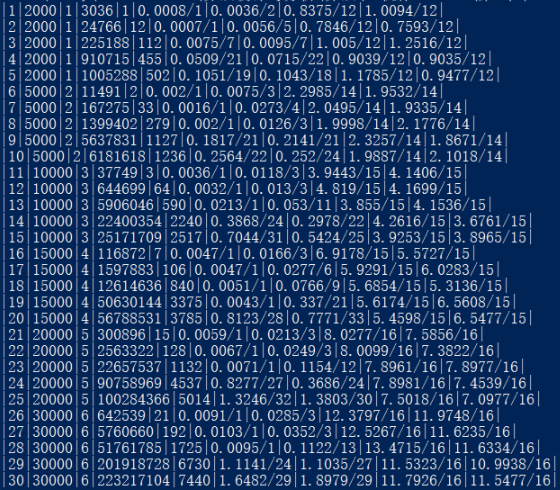
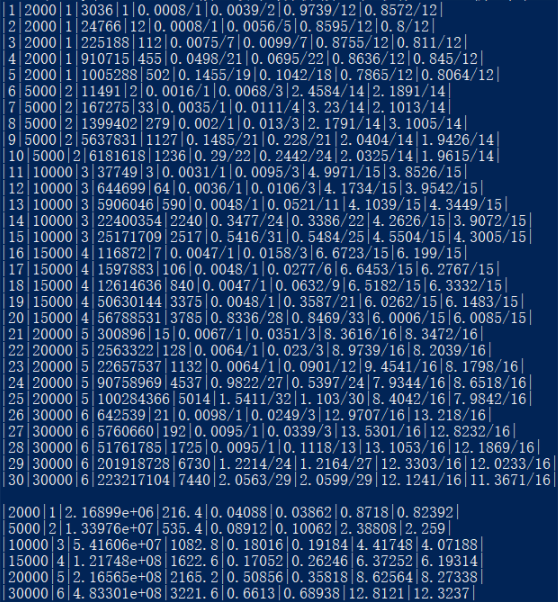
change the sort algo, add a average chart

diff --git a/aa-chapter2/sort.cpp b/aa-chapter2/sort.cpp
@@ -186,13 +186,19 @@ void merge_sort_nonrecursion(std::vector<int> &arr) {
 
 int main() {
     std::vector<int> length_list = { 2000, 5000, 10000, 15000, 20000, 30000 };
+    std::vector<std::vector<double>> result;
     for (auto length_list_iter = length_list.begin(); length_list_iter != length_list.end(); ++length_list_iter) {
         int length = *length_list_iter;
+        std::vector<double> n_result(8);
+        n_result[0] = length;
+        n_result[1] = length_list_iter - length_list.begin() + 1;
         for (int times = 0; times < REPEAT_TIMES; ++times) {
             auto unsort_number_backup = creat_unsort_number(length, times);
             auto unsort_number = unsort_number_backup;
             int disorder_degree = get_dd(unsort_number);
             int average_disorder_degree = static_cast<int>(disorder_degree / length);
+            n_result[2] += disorder_degree;
+            n_result[3] += average_disorder_degree;
 
             //quick sort 1
             unsort_number = unsort_number_backup;
@@ -201,6 +207,7 @@ int main() {
             auto end = std::chrono::system_clock::now();
             int depth1 = depth;
             double time1 = double(std::chrono::duration_cast<std::chrono::nanoseconds>(end - start).count() * std::pow(10, -6));
+            n_result[4] += time1;
 
             //quick sort 2
             unsort_number = unsort_number_backup;
@@ -209,6 +216,7 @@ int main() {
             end = std::chrono::system_clock::now();
             int depth2 = depth;
             double time2 = double(std::chrono::duration_cast<std::chrono::nanoseconds>(end - start).count() * std::pow(10, -6));
+            n_result[5] += time2;
 
             //merge sort recursion
             unsort_number = unsort_number_backup;
@@ -217,7 +225,8 @@ int main() {
             end = std::chrono::system_clock::now();
             int depth3 = depth;
             double time3 = double(std::chrono::duration_cast<std::chrono::nanoseconds>(end - start).count() * std::pow(10, -6));
-            
+            n_result[6] += time3;
+
             //merge sort non-recursion
             unsort_number = unsort_number_backup;
             start = std::chrono::system_clock::now();
@@ -225,6 +234,7 @@ int main() {
             end = std::chrono::system_clock::now();
             int depth4 = depth;
             double time4 = double(std::chrono::duration_cast<std::chrono::nanoseconds>(end - start).count() * std::pow(10, -6));
+            n_result[7] += time4;
 
             std::cout << "|"
                 << (length_list_iter - length_list.begin()) * REPEAT_TIMES + times + 1 << "|"
@@ -238,6 +248,17 @@ int main() {
                 << time4 << "/" << depth4 << "|";
             std::cout << std::endl;
         }
+        for (auto iter = n_result.begin() + 3; iter != n_result.end(); ++iter) {
+            *iter /= REPEAT_TIMES;
+        }
+        result.push_back(n_result);
+    }
+    std::cout << std::endl;
+    for (auto j : result) {
+        for (auto i : j) {
+            std::cout << "|" << i;
+        }
+        std::cout << "|" << std::endl;
     }
     system("pause");
     return 0;

diff --git a/aa-chapter2/2016211308_2016211352_刘思聪_算法设计与分析_第2章.md b/aa-chapter2/2016211308_2016211352_刘思聪_算法设计与分析_第2章.md
@@ -8,40 +8,53 @@
 
 ### 实验结果
 
+#### 表1
+
 > Qs1、Qs2、递归合并三项，前者为时间，单位为ms，后者为递归深度。
 
 |编号|长度|组号|DD|ADD|Qs1|Qs2|递归合并|非递归合并|
 |---|---|---|---|---|---|---|---|---|
-|1|2000|1|3036|1|0.0008/1|0.0036/2|0.8375/12|1.0094/12|
-|2|2000|1|24766|12|0.0007/1|0.0056/5|0.7846/12|0.7593/12|
-|3|2000|1|225188|112|0.0075/7|0.0095/7|1.005/12|1.2516/12|
-|4|2000|1|910715|455|0.0509/21|0.0715/22|0.9039/12|0.9035/12|
-|5|2000|1|1005288|502|0.1051/19|0.1043/18|1.1785/12|0.9477/12|
-|6|5000|2|11491|2|0.002/1|0.0075/3|2.2985/14|1.9532/14|
-|7|5000|2|167275|33|0.0016/1|0.0273/4|2.0495/14|1.9335/14|
-|8|5000|2|1399402|279|0.002/1|0.0126/3|1.9998/14|2.1776/14|
-|9|5000|2|5637831|1127|0.1817/21|0.2141/21|2.3257/14|1.8671/14|
-|10|5000|2|6181618|1236|0.2564/22|0.252/24|1.9887/14|2.1018/14|
-|11|10000|3|37749|3|0.0036/1|0.0118/3|3.9443/15|4.1406/15|
-|12|10000|3|644699|64|0.0032/1|0.013/3|4.819/15|4.1699/15|
-|13|10000|3|5906046|590|0.0213/1|0.053/11|3.855/15|4.1536/15|
-|14|10000|3|22400354|2240|0.3868/24|0.2978/22|4.2616/15|3.6761/15|
-|15|10000|3|25171709|2517|0.7044/31|0.5424/25|3.9253/15|3.8965/15|
-|16|15000|4|116872|7|0.0047/1|0.0166/3|6.9178/15|5.5727/15|
-|17|15000|4|1597883|106|0.0047/1|0.0277/6|5.9291/15|6.0283/15|
-|18|15000|4|12614636|840|0.0051/1|0.0766/9|5.6854/15|5.3136/15|
-|19|15000|4|50630144|3375|0.0043/1|0.337/21|5.6174/15|6.5608/15|
-|20|15000|4|56788531|3785|0.8123/28|0.7771/33|5.4598/15|6.5477/15|
-|21|20000|5|300896|15|0.0059/1|0.0213/3|8.0277/16|7.5856/16|
-|22|20000|5|2563322|128|0.0067/1|0.0249/3|8.0099/16|7.3822/16|
-|23|20000|5|22657537|1132|0.0071/1|0.1154/12|7.8961/16|7.8977/16|
-|24|20000|5|90758969|4537|0.8277/27|0.3686/24|7.8981/16|7.4539/16|
-|25|20000|5|100284366|5014|1.3246/32|1.3803/30|7.5018/16|7.0977/16|
-|26|30000|6|642539|21|0.0091/1|0.0285/3|12.3797/16|11.9748/16|
-|27|30000|6|5760660|192|0.0103/1|0.0352/3|12.5267/16|11.6235/16|
-|28|30000|6|51761785|1725|0.0095/1|0.1122/13|13.4715/16|11.6334/16|
-|29|30000|6|201918728|6730|1.1141/24|1.1035/27|11.5323/16|10.9938/16|
-|30|30000|6|223217104|7440|1.6482/29|1.8979/29|11.7926/16|11.5477/16|
+|1|2000|1|3036|1|0.0008/1|0.0039/2|0.9739/12|0.8572/12|
+|2|2000|1|24766|12|0.0008/1|0.0056/5|0.8595/12|0.8/12|
+|3|2000|1|225188|112|0.0075/7|0.0099/7|0.8755/12|0.811/12|
+|4|2000|1|910715|455|0.0498/21|0.0695/22|0.8636/12|0.845/12|
+|5|2000|1|1005288|502|0.1455/19|0.1042/18|0.7865/12|0.8064/12|
+|6|5000|2|11491|2|0.0016/1|0.0068/3|2.4584/14|2.1891/14|
+|7|5000|2|167275|33|0.0035/1|0.0111/4|3.23/14|2.1013/14|
+|8|5000|2|1399402|279|0.002/1|0.013/3|2.1791/14|3.1005/14|
+|9|5000|2|5637831|1127|0.1485/21|0.228/21|2.0404/14|1.9426/14|
+|10|5000|2|6181618|1236|0.29/22|0.2442/24|2.0325/14|1.9615/14|
+|11|10000|3|37749|3|0.0031/1|0.0095/3|4.9971/15|3.8526/15|
+|12|10000|3|644699|64|0.0036/1|0.0106/3|4.1734/15|3.9542/15|
+|13|10000|3|5906046|590|0.0048/1|0.0521/11|4.1039/15|4.3449/15|
+|14|10000|3|22400354|2240|0.3477/24|0.3386/22|4.2626/15|3.9072/15|
+|15|10000|3|25171709|2517|0.5416/31|0.5484/25|4.5504/15|4.3005/15|
+|16|15000|4|116872|7|0.0047/1|0.0158/3|6.6723/15|6.199/15|
+|17|15000|4|1597883|106|0.0048/1|0.0277/6|6.6453/15|6.2767/15|
+|18|15000|4|12614636|840|0.0047/1|0.0632/9|6.5182/15|6.3332/15|
+|19|15000|4|50630144|3375|0.0048/1|0.3587/21|6.0262/15|6.1483/15|
+|20|15000|4|56788531|3785|0.8336/28|0.8469/33|6.0006/15|6.0085/15|
+|21|20000|5|300896|15|0.0067/1|0.0351/3|8.3616/16|8.3472/16|
+|22|20000|5|2563322|128|0.0064/1|0.023/3|8.9739/16|8.2039/16|
+|23|20000|5|22657537|1132|0.0064/1|0.0901/12|9.4541/16|8.1798/16|
+|24|20000|5|90758969|4537|0.9822/27|0.5397/24|7.9344/16|8.6518/16|
+|25|20000|5|100284366|5014|1.5411/32|1.103/30|8.4042/16|7.9842/16|
+|26|30000|6|642539|21|0.0098/1|0.0249/3|12.9707/16|13.218/16|
+|27|30000|6|5760660|192|0.0095/1|0.0339/3|13.5301/16|12.8232/16|
+|28|30000|6|51761785|1725|0.0095/1|0.1118/13|13.1053/16|12.1869/16|
+|29|30000|6|201918728|6730|1.2214/24|1.2164/27|12.3303/16|12.0233/16|
+|30|30000|6|223217104|7440|2.0563/29|2.0599/29|12.1241/16|11.3671/16|
+
+#### 表2
+
+|长度|组号|avg DD|avg ADD|avg Qs1|avg Qs2|avg 递归合并|avg 非递归合并|
+|---|---|---|---|---|---|---|---|
+|2000|1|2.16899e+06|216.4|0.04088|0.03862|0.8718|0.82392|
+|5000|2|1.33976e+07|535.4|0.08912|0.10062|2.38808|2.259|
+|10000|3|5.41606e+07|1082.8|0.18016|0.19184|4.41748|4.07188|
+|15000|4|1.21748e+08|1622.6|0.17052|0.26246|6.37252|6.19314|
+|20000|5|2.16565e+08|2165.2|0.50856|0.35818|8.62564|8.27338|
+|30000|6|4.83301e+08|3221.6|0.6613|0.68938|12.8121|12.3237|
 
 ### 运行结果截图
 
@@ -246,13 +259,19 @@ void merge_sort_nonrecursion(std::vector<int> &arr) {
 
 int main() {
     std::vector<int> length_list = { 2000, 5000, 10000, 15000, 20000, 30000 };
+    std::vector<std::vector<double>> result;
     for (auto length_list_iter = length_list.begin(); length_list_iter != length_list.end(); ++length_list_iter) {
         int length = *length_list_iter;
+        std::vector<double> n_result(8);
+        n_result[0] = length;
+        n_result[1] = length_list_iter - length_list.begin() + 1;
         for (int times = 0; times < REPEAT_TIMES; ++times) {
             auto unsort_number_backup = creat_unsort_number(length, times);
             auto unsort_number = unsort_number_backup;
             int disorder_degree = get_dd(unsort_number);
             int average_disorder_degree = static_cast<int>(disorder_degree / length);
+            n_result[2] += disorder_degree;
+            n_result[3] += average_disorder_degree;
 
             //quick sort 1
             unsort_number = unsort_number_backup;
@@ -261,6 +280,7 @@ int main() {
             auto end = std::chrono::system_clock::now();
             int depth1 = depth;
             double time1 = double(std::chrono::duration_cast<std::chrono::nanoseconds>(end - start).count() * std::pow(10, -6));
+            n_result[4] += time1;
 
             //quick sort 2
             unsort_number = unsort_number_backup;
@@ -269,6 +289,7 @@ int main() {
             end = std::chrono::system_clock::now();
             int depth2 = depth;
             double time2 = double(std::chrono::duration_cast<std::chrono::nanoseconds>(end - start).count() * std::pow(10, -6));
+            n_result[5] += time2;
 
             //merge sort recursion
             unsort_number = unsort_number_backup;
@@ -277,6 +298,7 @@ int main() {
             end = std::chrono::system_clock::now();
             int depth3 = depth;
             double time3 = double(std::chrono::duration_cast<std::chrono::nanoseconds>(end - start).count() * std::pow(10, -6));
+            n_result[6] += time3;
 
             //merge sort non-recursion
             unsort_number = unsort_number_backup;
@@ -285,6 +307,7 @@ int main() {
             end = std::chrono::system_clock::now();
             int depth4 = depth;
             double time4 = double(std::chrono::duration_cast<std::chrono::nanoseconds>(end - start).count() * std::pow(10, -6));
+            n_result[7] += time4;
 
             std::cout << "|"
                 << (length_list_iter - length_list.begin()) * REPEAT_TIMES + times + 1 << "|"
@@ -298,6 +321,17 @@ int main() {
                 << time4 << "/" << depth4 << "|";
             std::cout << std::endl;
         }
+        for (auto iter = n_result.begin() + 3; iter != n_result.end(); ++iter) {
+            *iter /= REPEAT_TIMES;
+        }
+        result.push_back(n_result);
+    }
+    std::cout << std::endl;
+    for (auto j : result) {
+        for (auto i : j) {
+            std::cout << "|" << i;
+        }
+        std::cout << "|" << std::endl;
     }
     system("pause");
     return 0;
